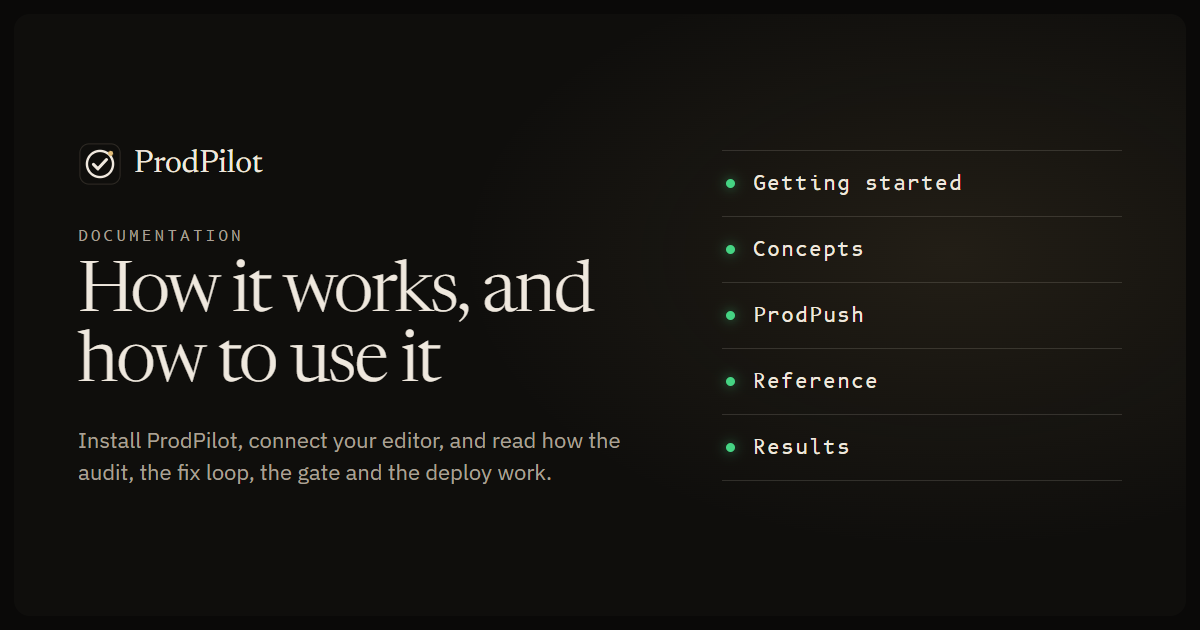
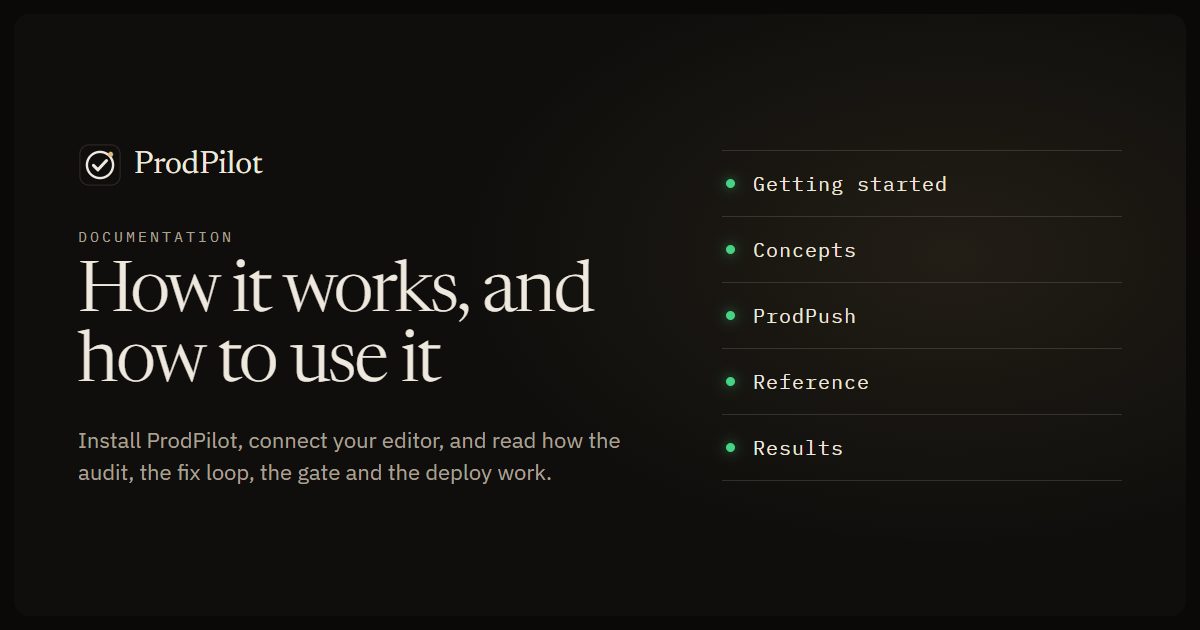
Fit the docs sidebar on one screen and set code in IBM Plex Mono
The sidebar looked as if it stopped at "4. Git push". In a browser it was
already a fixed pane that scrolls on its own, but it was taller than the
window, and a full-page capture paints a fixed pane only once, so
everything below the first screen looked missing. Every group after
Getting Started now starts collapsed, and Starlight opens the group that
holds the current page, so the whole navigation fits the pane at
1440 by 900: every group is on screen and every one of the 34 pages is
one click away. On a shorter window the pane still scrolls on its own.

Code showed package.json as "package. json" and 1.0.0 as "1. 0. 0". The
text was exact, with no letter spacing or font features, and copying it
gave the right characters; the cause was the font. B612 Mono draws its
full stop at the left of a full-width cell, which reads as a space after
every dot. Monospace text now uses IBM Plex Mono, the monospace sibling
of the body face, on the docs, the landing page and the social images,
and the two B612 packages are removed. Copying a code block or selecting
inline code still gives the exact text.

diff --git a/src/styles/tokens.css b/src/styles/tokens.css
@@ -6,8 +6,9 @@
  * stone in light mode and night in dark mode.
  *
  * Type: Newsreader, an editorial serif, sets headlines. IBM Plex Sans sets
- * reading text. B612 Mono, the typeface commissioned for cockpit displays, sets
- * anything technical.
+ * reading text. IBM Plex Mono sets anything technical, code included; B612 Mono,
+ * used before, drew its full stop at the left of the cell, so package.json
+ * read as package. json.
  *
  * Three indicator colours carry meaning and are never used for decoration:
  * amber is a check in progress, green is verified, red is failed.
@@ -16,7 +17,7 @@
 :root {
 	--pp-display: 'Newsreader Variable', 'Iowan Old Style', Georgia, serif;
 	--pp-sans: 'IBM Plex Sans', system-ui, -apple-system, 'Segoe UI', Roboto, sans-serif;
-	--pp-mono: 'B612 Mono', ui-monospace, 'SFMono-Regular', Menlo, Consolas, monospace;
+	--pp-mono: 'IBM Plex Mono', ui-monospace, 'SFMono-Regular', Menlo, Consolas, monospace;
 
 	--pp-stone: #d8cec2;
 	--pp-night: #0f0e0c;

diff --git a/src/styles/landing.css b/src/styles/landing.css
@@ -6,7 +6,8 @@
  * the hero stage, the layers, the flight log, the editors and the commands.
  *
  * Type: Newsreader, an editorial serif, sets headlines and figures. IBM Plex
- * Sans sets reading text. B612 Mono, the cockpit face, sets anything technical.
+ * Sans sets reading text. IBM Plex Mono sets anything technical; its full stop
+ * sits in the middle of its cell, so package.json and 1.0.0 read as written.
  *
  * The three indicator colours keep their meaning here as in the docs: amber is
  * a check in progress, green is verified, red is failed. Each plate defines its
@@ -16,7 +17,7 @@
 :root {
 	--serif: 'Newsreader Variable', 'Iowan Old Style', Georgia, serif;
 	--sans: 'IBM Plex Sans', system-ui, -apple-system, 'Segoe UI', Roboto, sans-serif;
-	--mono: 'B612 Mono', ui-monospace, 'SFMono-Regular', Menlo, Consolas, monospace;
+	--mono: 'IBM Plex Mono', ui-monospace, 'SFMono-Regular', Menlo, Consolas, monospace;
 
 	--ground: #0a0908;
 	--stone: #d8cec2;
